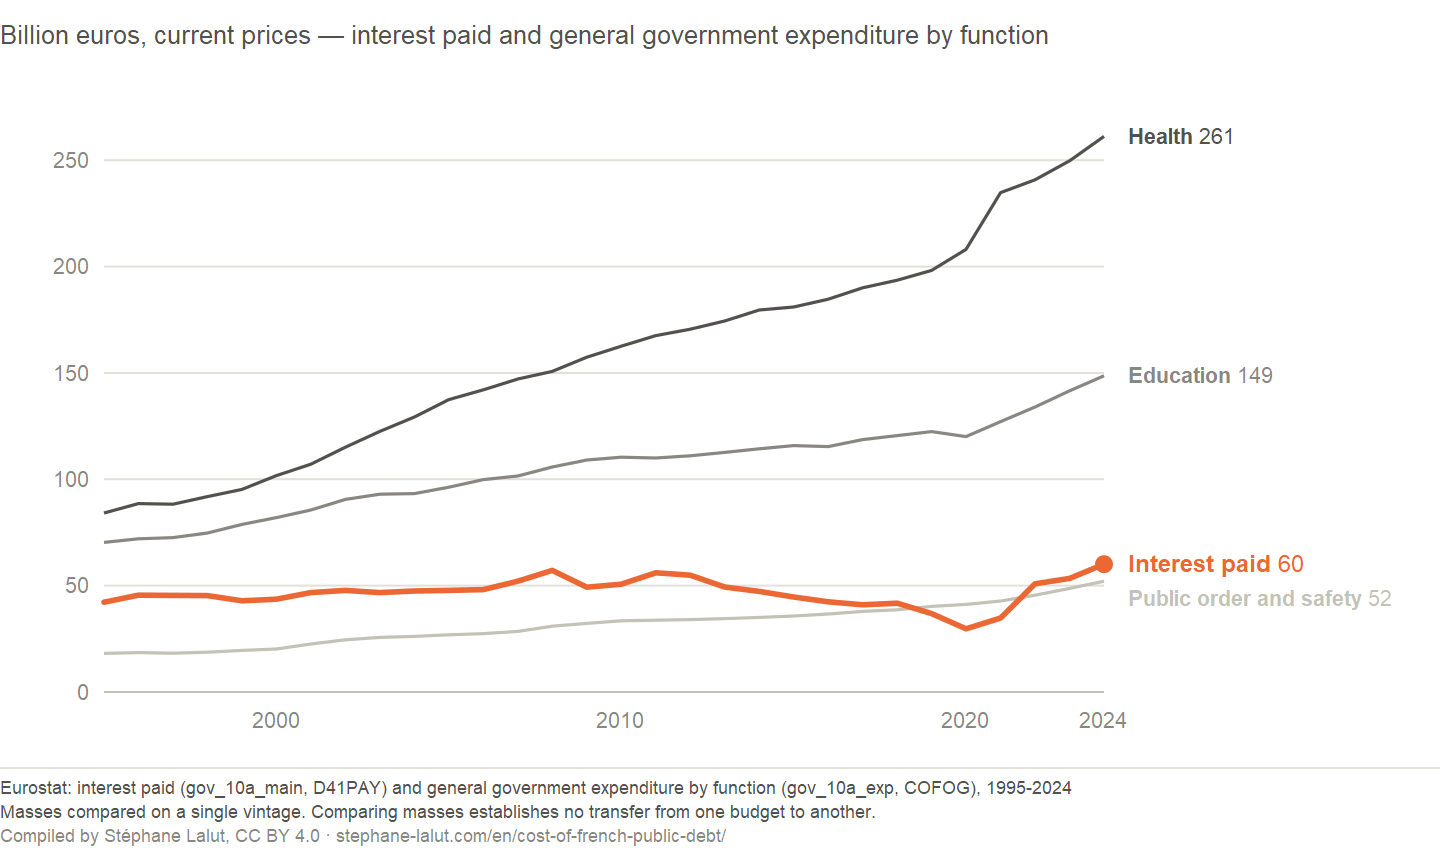
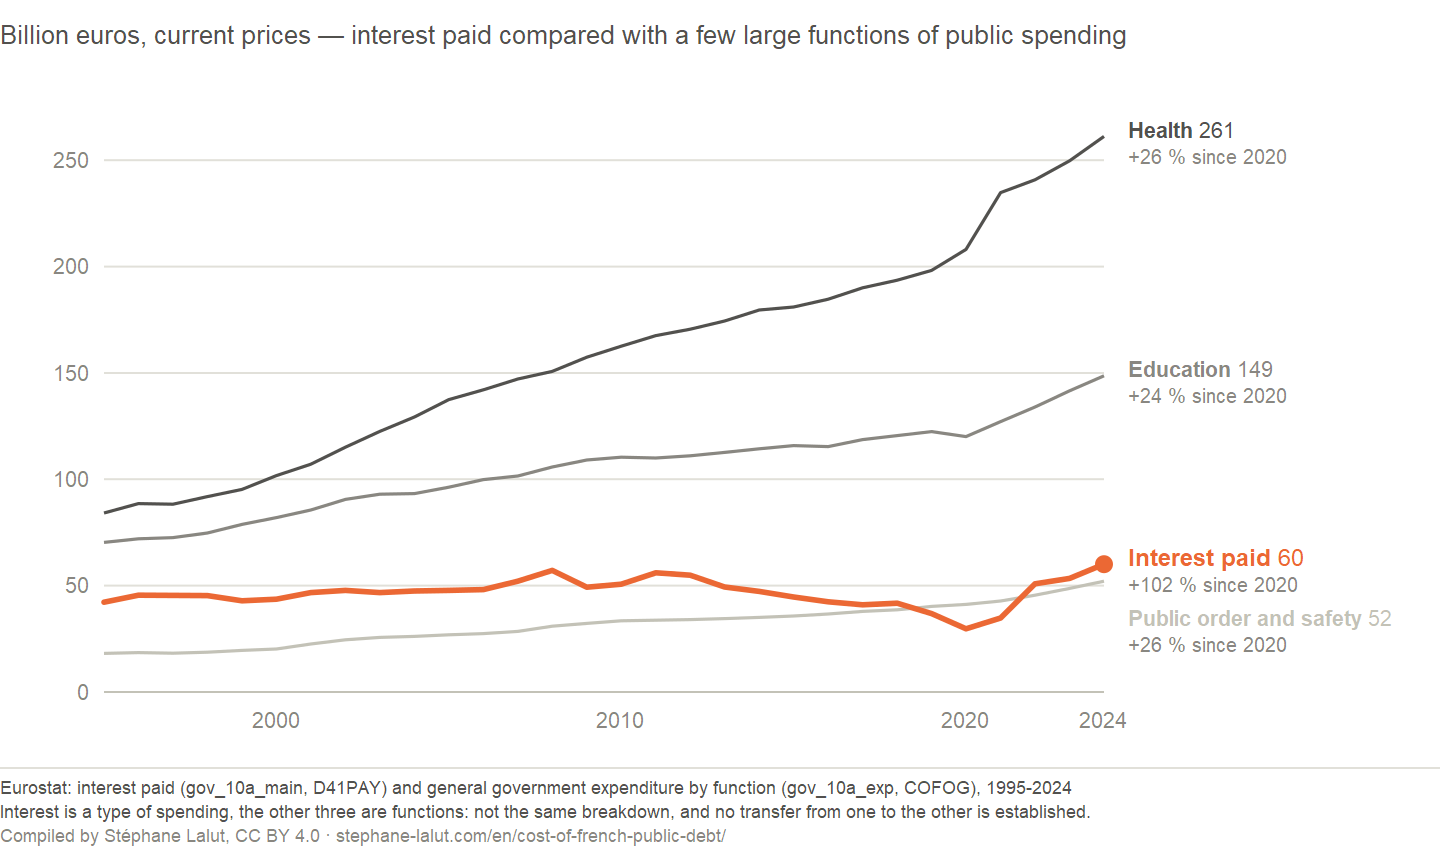
fix(dette): la figure des masses repond a la lecture qu'elle appelle -- et repare un correcteur qui corrompait les sources
QUESTION DE L'AUTEUR : cette figure contredit-elle la these du livre, puisque
sante et enseignement montent plus vite que la charge d'interets ? Reponse :
les deux lectures sont vraies et la page les dit desormais toutes deux.
Sur trente ans ces budgets croissent plus vite (la baisse des taux allegeait
la facture) ; depuis le creux de 2020 le rapport s'inverse -- +102 % pour les
interets contre au plus +26 % pour les trois fonctions. Les taux sont
CALCULES depuis le creux, qui se calcule aussi ; le generateur s'arrete si le
rapport s'inverse un jour.

La figure porte ces taux a droite de chaque serie. Son sous-titre et sa
precaution disent en outre ce que la piece externe du 28/09 a justement
releve : les interets sont une NATURE de depense, les trois autres des
FONCTIONS -- ce n'est pas le meme decoupage.

INCIDENT REPARE au passage : check-typo-fr.py ecrivait des OCTETS NULS dans
les sources. Protections imbriquees, restaurees une seule fois dans l'ordre
des indices : les jetons reintroduits apres leur tour partaient dans le
fichier. 12 octets nuls etaient entres dans la page le 28/09 (commit
671f803), detruisant le texte alternatif d'une figure sans erreur ni trace.
Restauration en passes bornees, deux gardes qui refusent d'ecrire, et temoin
vu mordre : 10 octets nuls et 5 shortcodes detruits avant, 0 et 5/5 apres.

diff --git a/scripts/update_dette_insee.py b/scripts/update_dette_insee.py
@@ -460,8 +460,9 @@ LABELS_CARTOUCHE = {
         "titre_charge": "La charge d'intérêts en milliards d'euros, %s-%s",
         "montre_charge": ("Ce que la dette coûte en euros, et non en part de PIB : "
                           "le creux, puis la remontée."),
-        "masses": ("Masses comparées sur un millésime unique. Une comparaison de "
-                   "masses n'établit aucun transfert d'un budget vers un autre."),
+        "masses": ("Les intérêts sont une nature de dépense, les trois autres des "
+                   "fonctions : ce n'est pas le même découpage, et aucun transfert "
+                   "n'est établi de l'un vers l'autre."),
         "titre_masses": "La charge d'intérêts face aux grands budgets, %s-%s",
         "montre_masses": ("La charge d'intérêts est longtemps restée sous le poste "
                           "« ordre et sécurité » ; elle est repassée au-dessus."),
@@ -500,8 +501,9 @@ LABELS_CARTOUCHE = {
         "titre_charge": "Interest paid in billion euros, %s-%s",
         "montre_charge": ("What the debt costs in euros rather than as a share of GDP: "
                           "the trough, then the climb."),
-        "masses": ("Masses compared on a single vintage. Comparing masses establishes "
-                   "no transfer from one budget to another."),
+        "masses": ("Interest is a type of spending, the other three are functions: not "
+                   "the same breakdown, and no transfer from one to the other is "
+                   "established."),
         "titre_masses": "Interest paid against the main public budgets, %s-%s",
         "montre_masses": ("Interest paid long stayed below the public order and safety "
                           "function; it has moved back above it."),
@@ -598,8 +600,8 @@ NBSP = " "  # U+00A0 pose par code, jamais tape
 LABELS_MASSES = {
     "fr": {
         "titre": "La charge d'intérêts face aux grands budgets publics, %s-%s",
-        "panneau": "Milliards d'euros courants — intérêts versés et dépenses "
-                   "publiques par fonction",
+        "panneau": "Milliards d'euros courants — la charge d'intérêts comparée à "
+                   "quelques grandes fonctions de dépense publique",
         "series": {"interets": "Charge d'intérêts", "GF07": "Santé",
                    "GF09": "Enseignement", "GF03": "Ordre et sécurité"},
         "desc": "Quatre courbes en milliards d'euros courants, de %s à %s. La santé et "
@@ -613,8 +615,8 @@ LABELS_MASSES = {
     },
     "en": {
         "titre": "Interest paid against the main public budgets, %s-%s",
-        "panneau": "Billion euros, current prices — interest paid and general government "
-                   "expenditure by function",
+        "panneau": "Billion euros, current prices — interest paid compared with a few "
+                   "large functions of public spending",
         "series": {"interets": "Interest paid", "GF07": "Health",
                    "GF09": "Education", "GF03": "Public order and safety"},
         "desc": "Four curves in billion euros, from %s to %s. Health and education rise "
@@ -1118,6 +1120,9 @@ def build_svg_masses(interets: dict, cofog: dict, lang: str = "fr") -> str:
         if a % 10 == 0 or a == a1:
             e.append('<text x="%.1f" y="%.1f" font-size="%d" fill="%s" text-anchor="middle">%d</text>'
                      % (X(a), H - mb + 18, TY_AXE, MUTED, a))
+    # Annee de reference des croissances : le CREUX de la charge d'interets. Il se
+    # calcule, il ne se choisit pas -- sinon la comparaison deviendrait un cadrage.
+    ref = min(ans, key=lambda a: interets[a])
     # contexte d'abord, serie heroine ensuite : l'ordre de dessin est la hierarchie
     gris = {"GF07": INK2, "GF09": MUTED, "GF03": AXIS}
     bouts = []
@@ -1125,25 +1130,33 @@ def build_svg_masses(interets: dict, cofog: dict, lang: str = "fr") -> str:
         pts = [(X(a), Y(cofog[c][a])) for a in ans]
         e.append('<path d="%s" fill="none" stroke="%s" stroke-width="1.6" '
                  'stroke-linejoin="round"/>' % (_line_path(pts), gris[c]))
-        bouts.append((pts[-1][1], gris[c], L["series"][c], cofog[c][ans[-1]], False))
+        bouts.append((pts[-1][1], gris[c], L["series"][c], cofog[c][ans[-1]], False,
+                      (cofog[c][ans[-1]] / cofog[c][ref] - 1) * 100))
     pts = [(X(a), Y(interets[a])) for a in ans]
     e.append('<path d="%s" fill="none" stroke="%s" stroke-width="2.8" '
              'stroke-linecap="round" stroke-linejoin="round"/>' % (_line_path(pts), COL_INTER))
     e.append('<circle cx="%.1f" cy="%.1f" r="4.5" fill="%s"/>' % (pts[-1][0], pts[-1][1], COL_INTER))
-    bouts.append((pts[-1][1], COL_INTER, L["series"]["interets"], interets[ans[-1]], True))
+    bouts.append((pts[-1][1], COL_INTER, L["series"]["interets"], interets[ans[-1]], True,
+                  (interets[ans[-1]] / interets[ref] - 1) * 100))
     # Etiquetage DIRECT a droite, sans legende ; ecart minimum garanti, sinon
     # deux budgets proches se superposent (« ordre et securite » et les interets
     # se croisent justement a la fin de la serie).
     bouts.sort()
-    ecart = 17.0
+    ecart = 30.0
     for i in range(1, len(bouts)):
         if bouts[i][0] - bouts[i - 1][0] < ecart:
             bouts[i] = (bouts[i - 1][0] + ecart,) + bouts[i][1:]
-    for y, col, nom, val, fort in bouts:
+    for y, col, nom, val, fort, croiss in bouts:
         e.append('<text x="%.1f" y="%.1f" font-size="%d" fill="%s">'
                  '<tspan font-weight="%d">%s</tspan> %s</text>'
-                 % (W - mr + 12, y + 4, TY_ANNOT if fort else TY_MINEUR, col,
+                 % (W - mr + 12, y + 1, TY_ANNOT if fort else TY_MINEUR, col,
                     700 if fort else 600, _esc(nom), num(val, 0)))
+        # La croissance DEPUIS LE CREUX repond a la lecture spontanee de la
+        # figure (« tout monte plus vite que les interets ») : vraie sur trente
+        # ans, fausse depuis le creux. Calculee, jamais ecrite a la main.
+        e.append('<text x="%.1f" y="%.1f" font-size="%d" fill="%s">%+d %% %s %d</text>'
+                 % (W - mr + 12, y + 14, TY_MINEUR - 1, MUTED, round(croiss),
+                    "depuis" if lang == "fr" else "since", ref))
     e += cartouche(W, H + 4, L["src"] % (a0, a1), "masses", lang)
     e.append("</svg>")
     return "\n".join(e) + "\n"
@@ -1566,6 +1579,20 @@ def main() -> int:
         print("ECHEC: recettes ou interets manquants pour le millesime commun %s." % equiv_y)
         return 1
     int_sur_recettes_equiv = round(d41_mdeur[equiv_y] / tr_mdeur[equiv_y] * 100.0, 1)
+    # Croissances depuis le CREUX de la charge d'interets : c'est la seule lecture
+    # qui repond a « tout monte plus vite que les interets » -- vraie sur trente
+    # ans, fausse depuis le creux. Le creux se calcule ; la prose s'arrete si le
+    # rapport s'inverse un jour.
+    an_c = [a for a in d41_mdeur if a in cofog_mio.get("GF07", {})]
+    creux_ref = min(an_c, key=lambda a: d41_mdeur[a])
+    fin_c = max(an_c)
+    croiss_int = (d41_mdeur[fin_c] / d41_mdeur[creux_ref] - 1) * 100
+    croiss_fonc_max = max((cofog_mio[c][fin_c] / cofog_mio[c][creux_ref] - 1) * 100
+                          for c in ("GF03", "GF07", "GF09"))
+    if croiss_int < 2 * croiss_fonc_max:
+        print("ECHEC: la page dit que les interets ont progresse bien plus vite que les "
+              "fonctions depuis le creux (%.0f %% contre %.0f %%)." % (croiss_int, croiss_fonc_max))
+        return 1
     in_band("interets/recettes " + equiv_y, int_sur_recettes_equiv, 1.0, 15.0)
     if FAILURES:
         print("ECHEC: %d garde(s) sur les derives -- AUCUNE ecriture." % len(FAILURES))
@@ -1625,6 +1652,9 @@ def main() -> int:
             "equiv_annee": equiv_y,
             "interets_equiv_mdeur": nb(int_equiv),
             "recettes_equiv_mdeur": nb(tr_mdeur[equiv_y]),
+            "creux_ref_annee": creux_ref,
+            "croiss_interets_depuis_creux_pct": nb(croiss_int, 0),
+            "croiss_fonctions_depuis_creux_pct": nb(croiss_fonc_max, 0),
             "interets_sur_recettes_equiv_pct": nb(int_sur_recettes_equiv),
             "justice_mdeur": nb(cof24["GF0303"]),
             "ordre_mdeur": nb(cof24["GF03"]),

diff --git a/scripts/check-typo-fr.py b/scripts/check-typo-fr.py
@@ -95,8 +95,21 @@ def masquer(txt: str):
 
 
 def demasquer(txt: str, coffre: list[str]) -> str:
-    for i, brut in enumerate(coffre):
-        txt = txt.replace("\x00%d\x00" % i, brut)
+    """Restaure les zones protegees, Y COMPRIS IMBRIQUEES.
+
+    Une zone protegee peut contenir les jetons d une autre : restaurer une
+    seule fois, dans l ordre des indices, laisse dans le texte les jetons
+    reintroduits APRES leur tour -- ils partaient alors dans le fichier, en
+    octets nuls, sans erreur ni trace (incident du 2026-09-28 : 12 octets nuls
+    dans le texte alternatif d une figure). On repasse jusqu a stabilite, en
+    nombre de passes borne ; l appelant verifie qu il ne reste plus rien.
+    """
+    for _ in range(len(coffre) + 1):
+        avant = txt
+        for i, brut in enumerate(coffre):
+            txt = txt.replace("\x00%d\x00" % i, brut)
+        if txt == avant:
+            break
     return txt
 
 
@@ -129,7 +142,19 @@ def main() -> int:
     touches = 0
     for f in cibles:
         brut = io.open(f, encoding="utf-8", newline="").read()
+        # Deux gardes, parce que le defaut ne se voyait pas : une source qui
+        # contient deja un octet nul est corrompue ; un texte corrige qui en
+        # contient encore signale un jeton non restaure. Dans les deux cas on
+        # n ecrit RIEN et on le dit.
+        if chr(0) in brut:
+            print("%s : OCTET NUL dans la source -- corrompue, rien n est ecrit."
+                  % f.relative_to(RACINE))
+            return 2
         corrige, trouve = analyser(brut)
+        if chr(0) in corrige:
+            print("%s : jeton de protection non restaure -- rien n est ecrit."
+                  % f.relative_to(RACINE))
+            return 2
         if not trouve:
             continue
         touches += 1

diff --git a/content/cout-de-la-dette-publique/_index.md b/content/cout-de-la-dette-publique/_index.md
@@ -62,7 +62,7 @@ Pour lire ces chiffres sans être spécialiste, la chaîne tient en quatre maill
 **Le mécanisme.** Le chaînon entre les deux courbes est le **taux apparent** de la dette — les intérêts versés une année, rapportés à l'encours en début d'année&nbsp;: un bon **indicateur du coût moyen du stock** — non sa mesure exacte, puisqu'il rapproche un flux comptable d'intérêts et un encours arrêté à une date, avec leurs écarts de périmètre, de calendrier et d'indexation. À ne pas confondre non plus avec le taux auquel la France emprunte aujourd'hui. Il passe d'environ {{< dette-val "taux_apparent_premier" >}}&nbsp;% en {{< dette-val "taux_apparent_premier_annee" >}} à {{< dette-val "taux_apparent_creux" >}}&nbsp;% au creux de {{< dette-val "taux_apparent_creux_annee" >}}, avant de remonter à {{< dette-val "taux_apparent_dernier" >}}&nbsp;% en {{< dette-val "taux_apparent_dernier_annee" >}}. Sa transmission est **retardée**&nbsp;: la charge d'une année rémunère un stock émis à des dates différentes — le coût moyen peut donc continuer de monter alors même que les taux de marché se stabilisent, à mesure que la dette ancienne, peu coûteuse, se refinance aux conditions nouvelles. L'asymétrie résume l'histoire&nbsp;: en 1995, un encours de {{< dette-val "dette_1995_pct_pib" >}}&nbsp;% du PIB coûtait {{< dette-val "interets_1995_pct_pib" >}}&nbsp;% de PIB d'intérêts&nbsp;; un stock aujourd'hui deux fois plus lourd coûte encore proportionnellement moins — mais son prix moyen remonte.
 
 <figure class="figure-ciseau">
-  <img src="/img/taux-apparent-dette.svg" alt="Une courbe en pourcentage par an : le coût moyen du stock de dette publique descend de 45 % en 46 à 47 % en 48, son minimum, puis remonte à 49 % en 50. La baisse court sur près de vingt-cinq ans, la remontée sur les dernières années." width="720" height="388" loading="lazy">
+  <img src="/img/taux-apparent-dette.svg" alt="Une courbe en pourcentage par an : le coût moyen du stock de dette publique descend de {{< dette-val "taux_apparent_premier" >}} % en {{< dette-val "taux_apparent_premier_annee" >}} à {{< dette-val "taux_apparent_creux" >}} % en {{< dette-val "taux_apparent_creux_annee" >}}, son minimum, puis remonte à {{< dette-val "taux_apparent_dernier" >}} % en {{< dette-val "taux_apparent_dernier_annee" >}}. La baisse court sur près de vingt-cinq ans, la remontée sur les dernières années." width="720" height="388" loading="lazy">
   <figcaption><strong>Taux apparent</strong>&nbsp;: intérêts versés une année rapportés à l'encours au 31&nbsp;décembre précédent — calcul sur séries Eurostat (<code>gov_10a_main</code>) et INSEE. Trois points sont étiquetés&nbsp;: le début de la série, son minimum, le dernier millésime. La série complète, année par année, est dans <a href="/dette_officielle.json">dette_officielle.json</a>.</figcaption>
 </figure>
 {{< fig-actions id="taux" >}}
@@ -93,7 +93,11 @@ Tout ce qui suit porte sur **le même millésime**, {{< dette-val "equiv_annee" 
 {{< figure-svg fichier="masses-comparees" alt="Quatre courbes en milliards d'euros courants, de 1995 à 2024 : la santé et l'enseignement montent régulièrement et restent les plus élevés ; la charge d'intérêts, longtemps stable puis en baisse, remonte après 2020 et repasse au-dessus du poste « ordre et sécurité »." >}}Eurostat, intérêts versés et dépenses des administrations par fonction. Toutes les séries s'arrêtent au même millésime.{{< /figure-svg >}}
 {{< fig-actions id="masses" >}}
 
-**Ce que la courbe ajoute au tableau.** Les quatre montants ci-dessus sont une photographie&nbsp;; leur trajectoire dit autre chose. La charge d'intérêts est restée, pendant vingt ans, sous le poste «&nbsp;ordre et sécurité&nbsp;» tout entier — police, gendarmerie, justice, secours. Elle est repassée au-dessus. La santé et l'enseignement, eux, s'en éloignent&nbsp;: ce sont des masses d'un autre ordre, et la comparaison ne dit pas qu'un euro d'intérêts leur a été pris.
+**Ce que la courbe ajoute au tableau.** Les quatre montants ci-dessus sont une photographie&nbsp;; leur trajectoire dit autre chose. La charge d'intérêts est restée, pendant vingt ans, sous le poste «&nbsp;ordre et sécurité&nbsp;» tout entier — police, gendarmerie, justice, secours. Elle est repassée au-dessus. La santé et l'enseignement, eux, s'en éloignent&nbsp;: ce sont des masses d'un autre ordre.
+
+**Une lecture trompeuse guette ici, et il faut l'écarter.** Sur l'ensemble de la période, ces trois budgets ont crû **plus vite** que la charge d'intérêts&nbsp;: la baisse des taux a longtemps allégé la facture pendant que la dépense publique progressait. Le rapport s'inverse depuis le creux de {{< dette-val "creux_ref_annee" >}}&nbsp;: **+{{< dette-val "croiss_interets_depuis_creux_pct" >}}&nbsp;% pour les intérêts**, contre au plus +{{< dette-val "croiss_fonctions_depuis_creux_pct" >}}&nbsp;% pour ces trois fonctions. Deux choses sont donc vraies en même temps, et cette page ne choisit pas entre elles&nbsp;: la dette **n'a pas fait baisser** ces budgets, et son coût est devenu, depuis le creux, la dépense qui progresse le plus vite.
+
+Une précaution de lecture enfin&nbsp;: les intérêts sont une **nature** de dépense, les trois autres des **fonctions**. Ce n'est pas le même découpage — les intérêts figurent d'ailleurs dans la fonction «&nbsp;services publics généraux&nbsp;» — et la comparaison ne dit pas qu'un euro d'intérêts a été pris à l'un de ces budgets.
 
 Ces équivalences comparent des masses, pas des causes&nbsp;: elles disent l'ordre de grandeur de ce que le service de la dette pèse, chaque année, rapporté à la ressource publique — un poids, pas une part prélevée sur un autre budget.
 

diff --git a/content/cout-de-la-dette-publique/_index.en.md b/content/cout-de-la-dette-publique/_index.en.md
@@ -98,7 +98,11 @@ Everything below uses **the same year**, {{< dette-val "equiv_annee" >}} — the
 {{< figure-svg fichier="masses-comparees-en" alt="Four curves in billion euros, from 1995 to 2024: health and education rise steadily and stay the highest; interest paid, long flat then falling, climbs after 2020 and moves back above the public order and safety function." >}}Eurostat, interest paid and general government expenditure by function. Every series stops at the same vintage.{{< /figure-svg >}}
 {{< fig-actions id="masses" >}}
 
-**What the curve adds to the table.** The four amounts above are a snapshot; their path says something else. For two decades, interest paid stayed below the entire public order and safety function — police, courts, emergency services. It has moved back above it. Health and education are drifting away: they are masses of another order, and the comparison does not say that a euro of interest was taken from them.
+**What the curve adds to the table.** The four amounts above are a snapshot; their path says something else. For two decades, interest paid stayed below the entire public order and safety function — police, courts, emergency services. It has moved back above it. Health and education are drifting away: they are masses of another order.
+
+**One misreading has to be ruled out here.** Over the whole period those three budgets grew **faster** than interest paid: falling rates long lightened the bill while public spending rose. The relation reverses after the {{< dette-val "creux_ref_annee" >}} trough: **+{{< dette-val "croiss_interets_depuis_creux_pct" >}}% for interest**, against at most +{{< dette-val "croiss_fonctions_depuis_creux_pct" >}}% for these three functions. Both things are true at once, and this page does not choose between them: debt has **not** cut these budgets, and its cost has become, since the trough, the fastest-growing item.
+
+One reading caveat: interest is a **type** of spending, the other three are **functions**. Not the same breakdown — interest sits inside the general public services function — and the comparison does not say that a euro of interest was taken from any of these budgets.
 
 These comparisons are about scale, not causation. They show the size of annual debt-service costs relative to public resources — a weight, not a slice taken from another budget.
 
